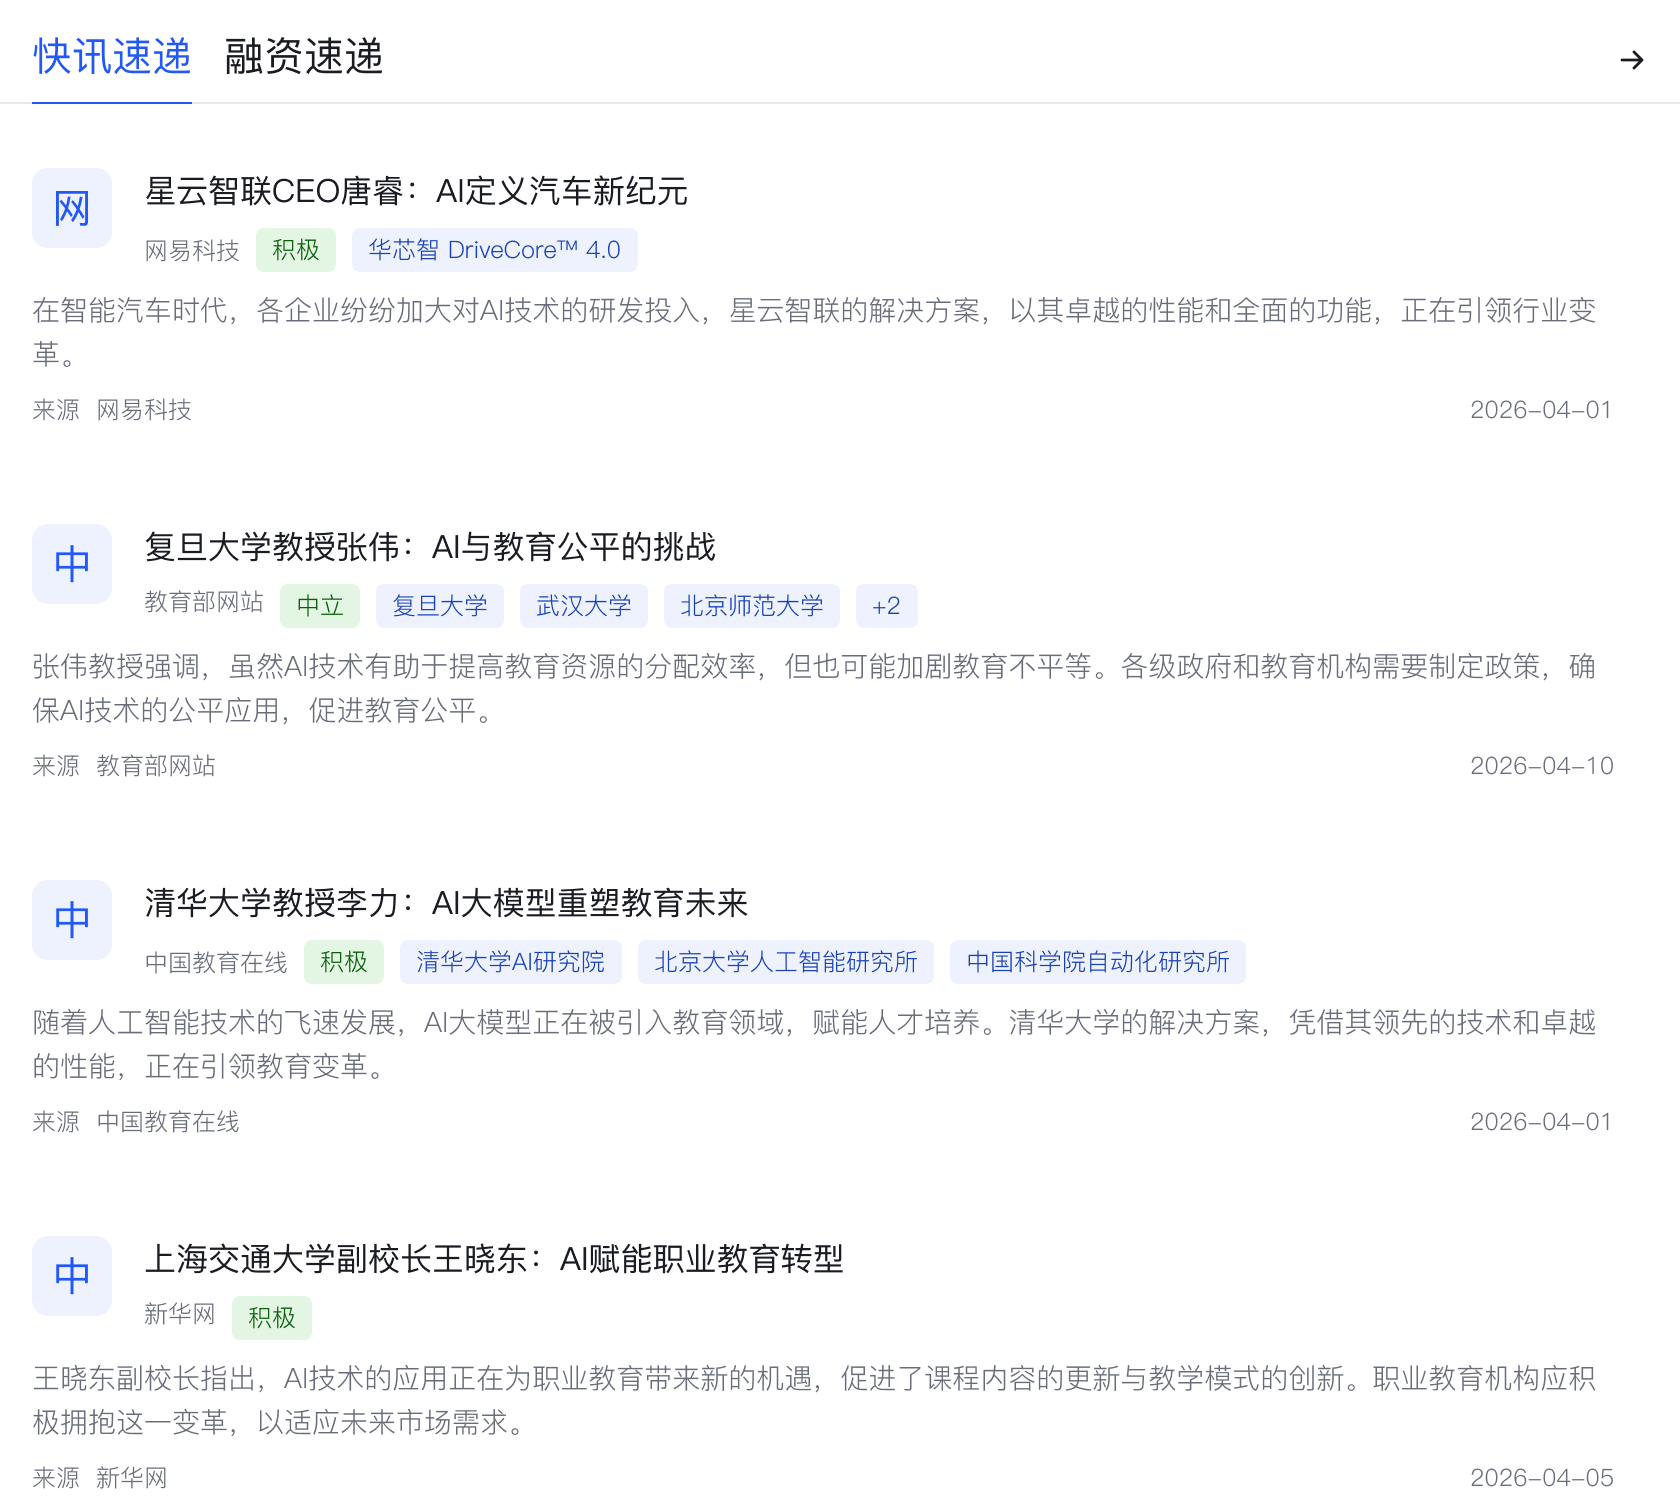
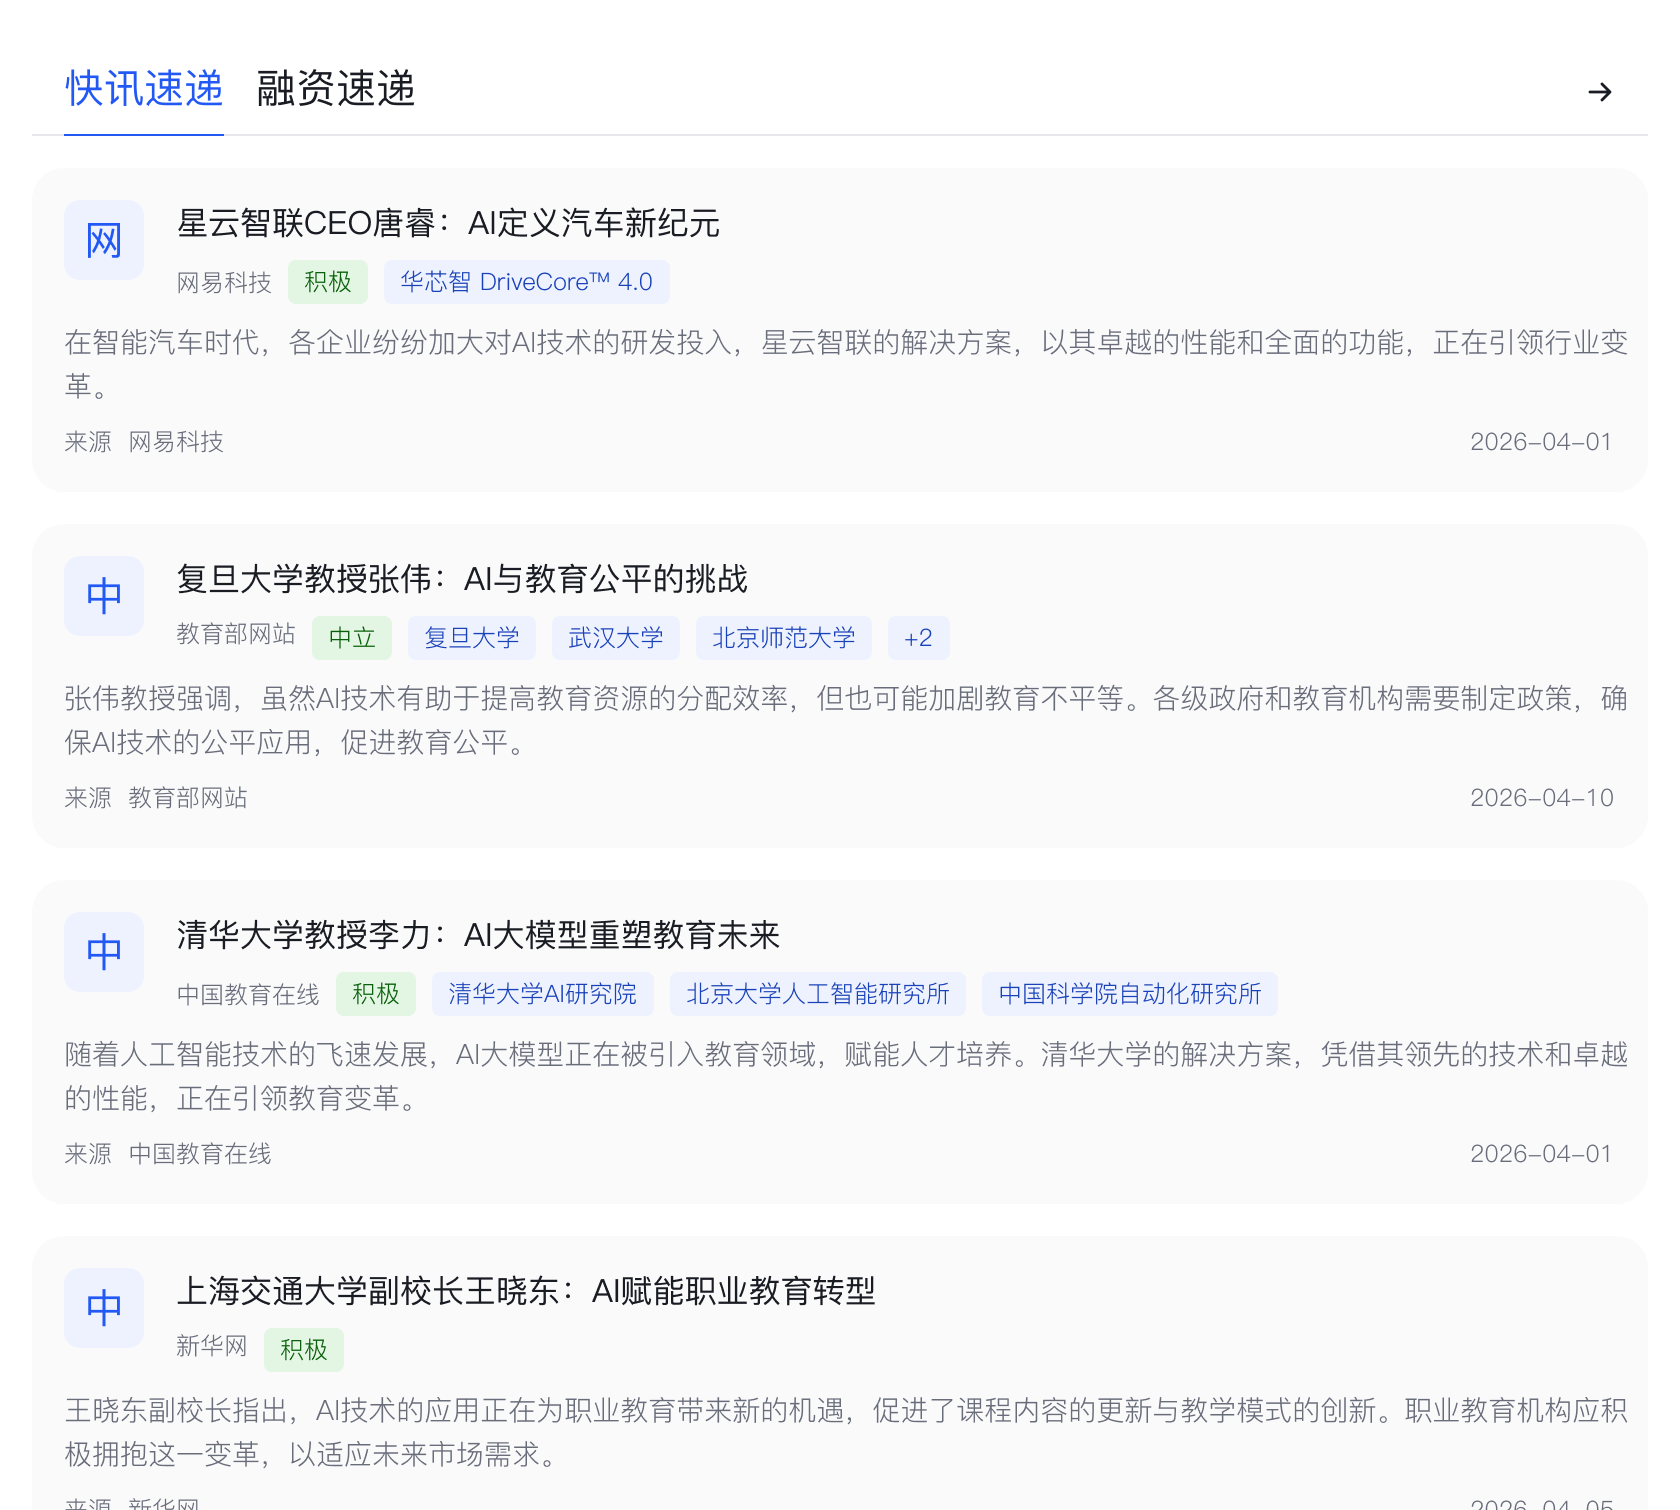
启信：重新导出无投影工作台拼接素材

diff --git a/src/app/cases/CaseBlocks.tsx b/src/app/cases/CaseBlocks.tsx
@@ -30,7 +30,7 @@ export function CaseBlocks({ blocks, labels, depth = 0 }: { depth?: number; bloc
     const key = index;
     switch (block.kind) {
       case 'workbench-panels': return <figure key={key} className="workbench-panels" aria-label="首页工作台的地区概览、企业监控与异动预警"><div className="workbench-overview-panel"><img src={`${import.meta.env.BASE_URL}images/qixin/workbench-overview.webp`} alt="地区概览：企业数量、企业类型与本年新增注销对比" width={1680} height={736} loading="lazy" /></div><div className="workbench-status-panel"><img src={`${import.meta.env.BASE_URL}images/qixin/workbench-monitor.webp`} alt="企业监控数据" width={688} height={620} loading="lazy" /><img src={`${import.meta.env.BASE_URL}images/qixin/workbench-risk.webp`} alt="异动预警和风险分布" width={688} height={472} loading="lazy" /></div></figure>;
-      case 'workbench-functions': return <figure key={key} className="workbench-functions-plate" aria-label="报告入口、常用功能、企业榜单与快讯速递"><div className="workbench-functions-stack">{[{ file: 'reports', alt: '企业和产业分析报告入口', width: 1696, height: 240 }, { file: 'shortcuts', alt: '常用功能与企业榜单', width: 1680, height: 416 }, { file: 'news', alt: '快讯速递与融资速递', width: 1680, height: 1510 }].map(item => <img key={item.file} src={`${import.meta.env.BASE_URL}images/qixin/workbench-${item.file}.webp`} alt={item.alt} width={item.width} height={item.height} loading="lazy" />)}</div></figure>;
+      case 'workbench-functions': return <figure key={key} className="workbench-functions-plate" aria-label="报告入口、常用功能、企业榜单与快讯速递"><div className="workbench-functions-stack">{[{ file: 'reports', alt: '企业和产业分析报告入口', width: 1680, height: 224 }, { file: 'shortcuts', alt: '常用功能与企业榜单', width: 1680, height: 416 }, { file: 'news', alt: '快讯速递与融资速递', width: 1680, height: 1510 }].map(item => <img key={item.file} src={`${import.meta.env.BASE_URL}images/qixin/workbench-${item.file}.webp`} alt={item.alt} width={item.width} height={item.height} loading="lazy" />)}</div></figure>;
       case 'chain-outcome': return <ChainOutcome key={key} />;
       case 'heading': return <h3 key={key} className={`${block.prominent ? 'text-h4' : 'case-detail-heading'} font-medium`}>{block.text}</h3>;
       case 'workbench-laptop': return <figure key={key} className="workbench-laptop-plate" aria-label="笔记本电脑中的首页工作台"><div className="workbench-laptop"><div className="workbench-laptop-lid"><span className="workbench-laptop-camera" aria-hidden="true" /><div className="workbench-laptop-screen" tabIndex={0} aria-label="首页工作台截图，可向下滚动查看完整页面"><img src={`${import.meta.env.BASE_URL}images/qixin/home-workbench.webp`} width={2880} height={2564} alt="启信产业大脑首页工作台，包括招商搜索、报告入口、地区概览、常用功能与企业动态" loading="lazy" /></div></div><div className="workbench-laptop-base" aria-hidden="true"><span /></div></div></figure>;

diff --git a/src/app/cases/case.css b/src/app/cases/case.css
@@ -742,5 +742,5 @@ button.generator-notes { display: block; width: calc(100% - 8px); height: 140px;
 
 .workbench-functions-plate { margin: 0; aspect-ratio: 1.5; overflow: hidden; border-radius: var(--space-6); padding-top: var(--rhythm-6); background: radial-gradient(ellipse at 0 100%, color-mix(in srgb, var(--color-chain-business-fg) 14%, transparent), transparent 45%), radial-gradient(ellipse at 100% 100%, color-mix(in srgb, var(--color-chain-backend-fg) 12%, transparent), transparent 50%), var(--color-case-plate); }
 .workbench-functions-stack { width: 68%; margin-inline: auto; display: flex; flex-direction: column; gap: var(--space-4); }
-.workbench-functions-stack img { display: block; width: 100%; height: auto; border-radius: var(--space-4); box-shadow: var(--shadow-float); }
+.workbench-functions-stack img { display: block; width: 100%; height: auto; border-radius: var(--space-4); }
 @media (max-width: 639px) { .workbench-functions-plate { padding-top: var(--space-6); aspect-ratio: 1; } .workbench-functions-stack { width: 82%; } }
